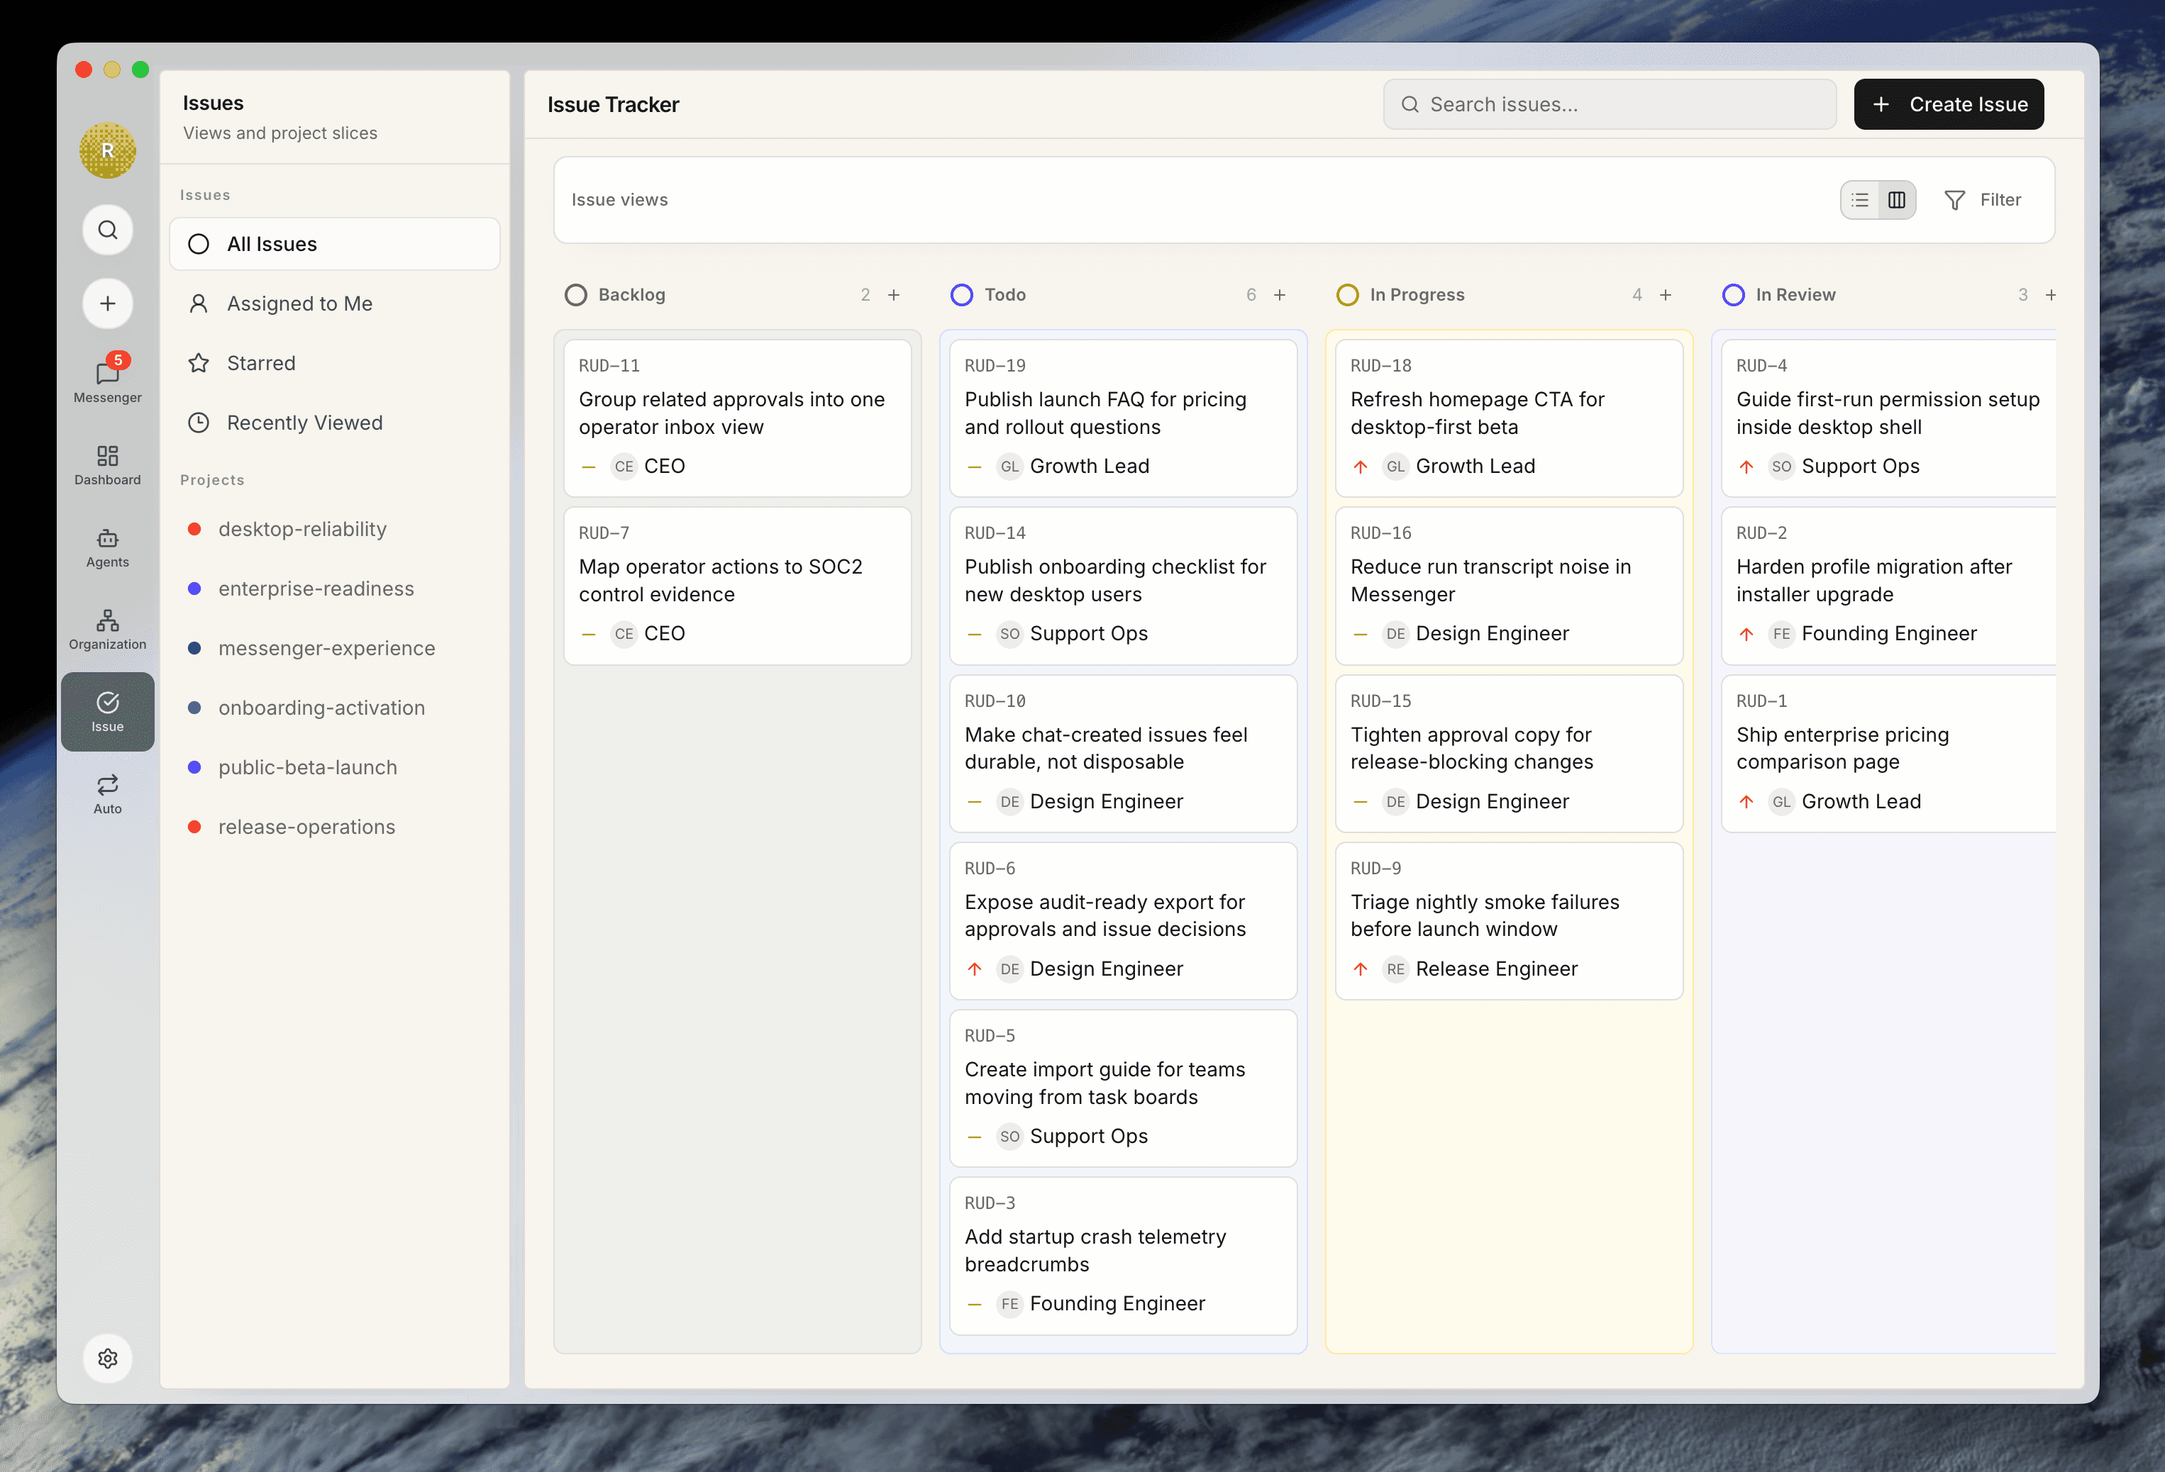
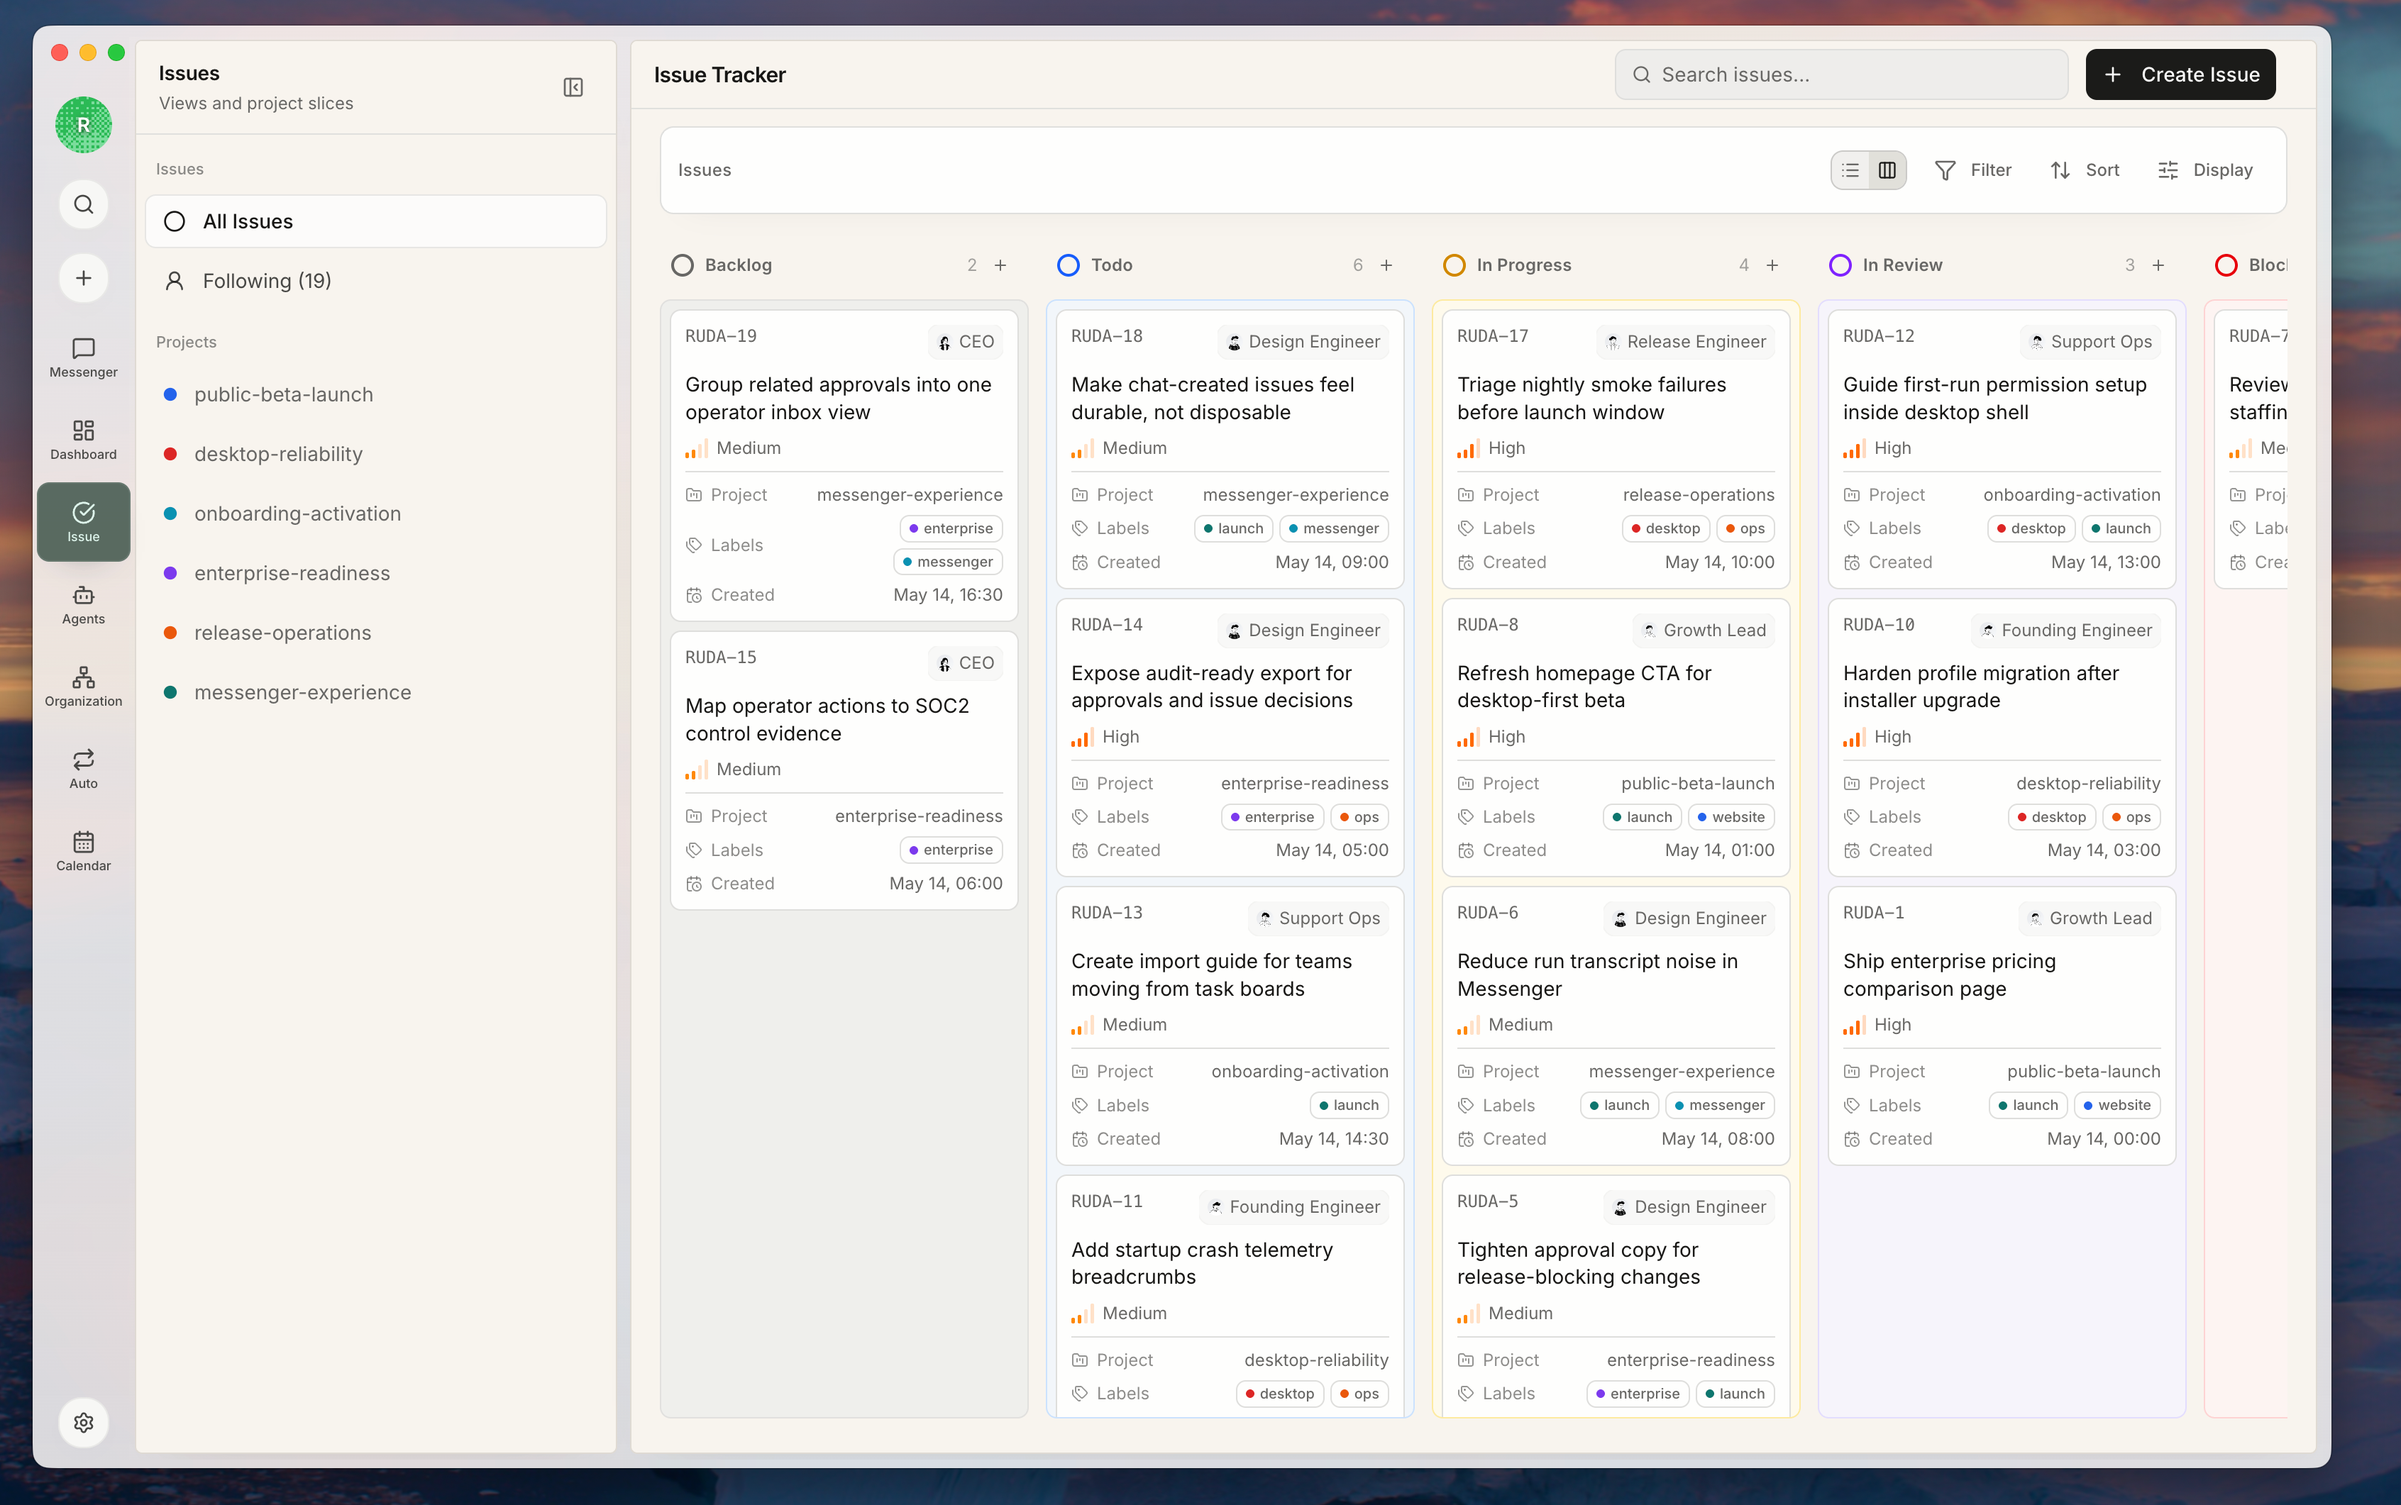
docs: update readme

diff --git a/README.md b/README.md
@@ -18,6 +18,10 @@ Rudder turns those coordination patterns into product primitives for agent teams
 
 ![](./doc/assets/readme_imgs/1.png)
 
+![](./doc/assets/readme_imgs/9.png)
+
+![](./doc/assets/readme_imgs/10.png)
+
 ![](./doc/assets/readme_imgs/2.png)
 
 ![](./doc/assets/readme_imgs/3.png)
@@ -31,6 +35,8 @@ Rudder turns those coordination patterns into product primitives for agent teams
 ![](./doc/assets/readme_imgs/7.png)
 
 ![](./doc/assets/readme_imgs/8.png)
+
+
 
 That means:
 
